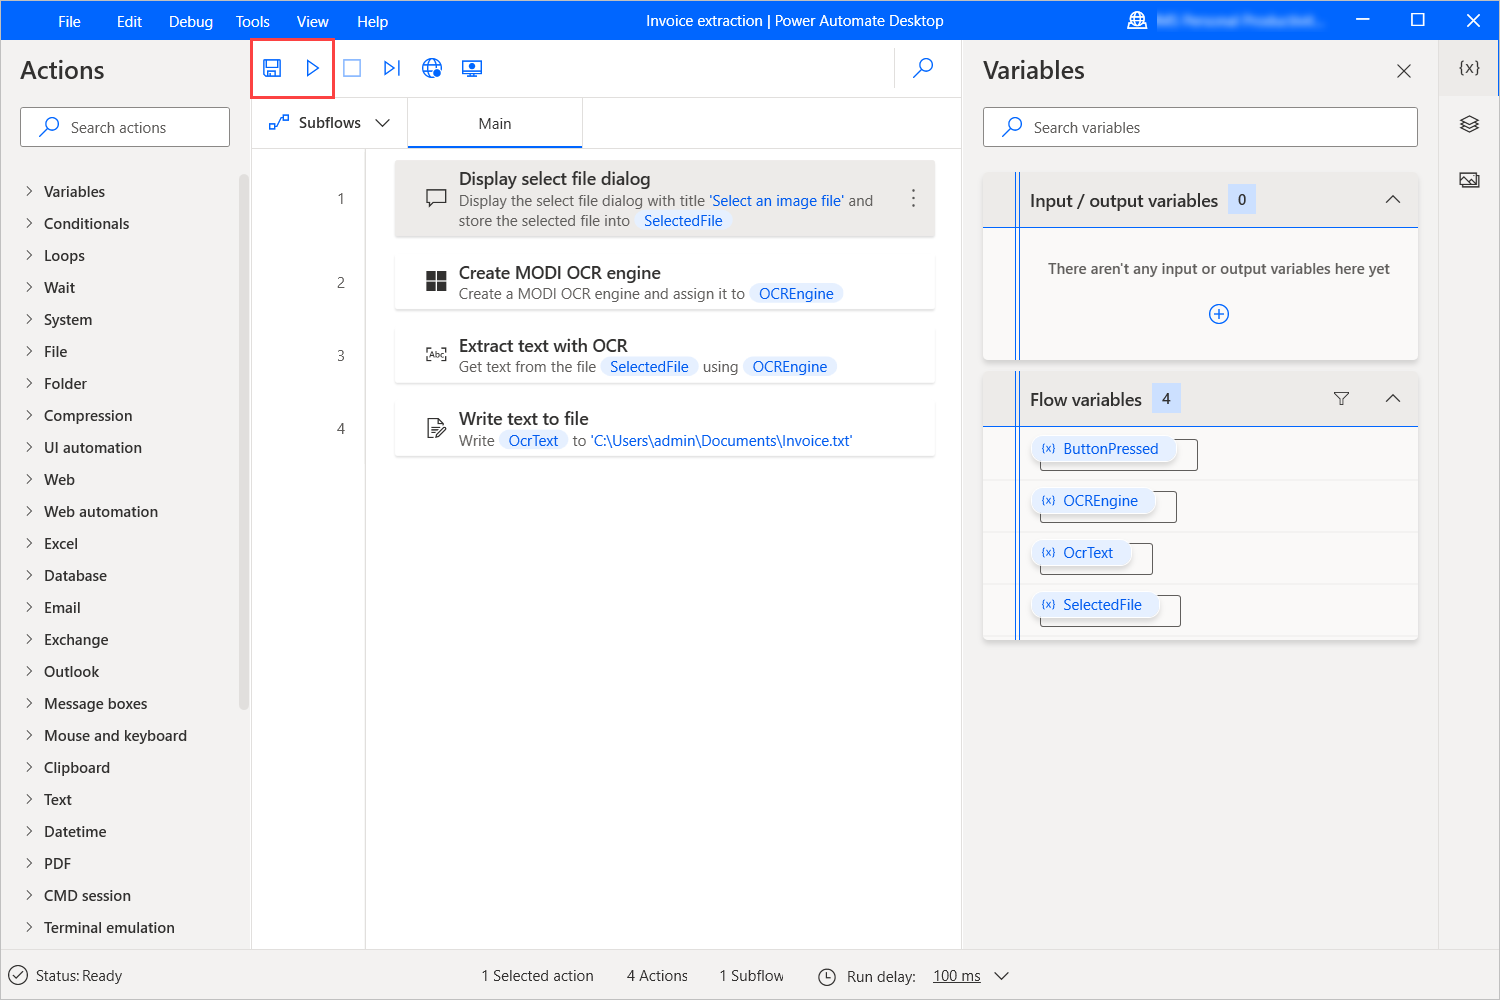
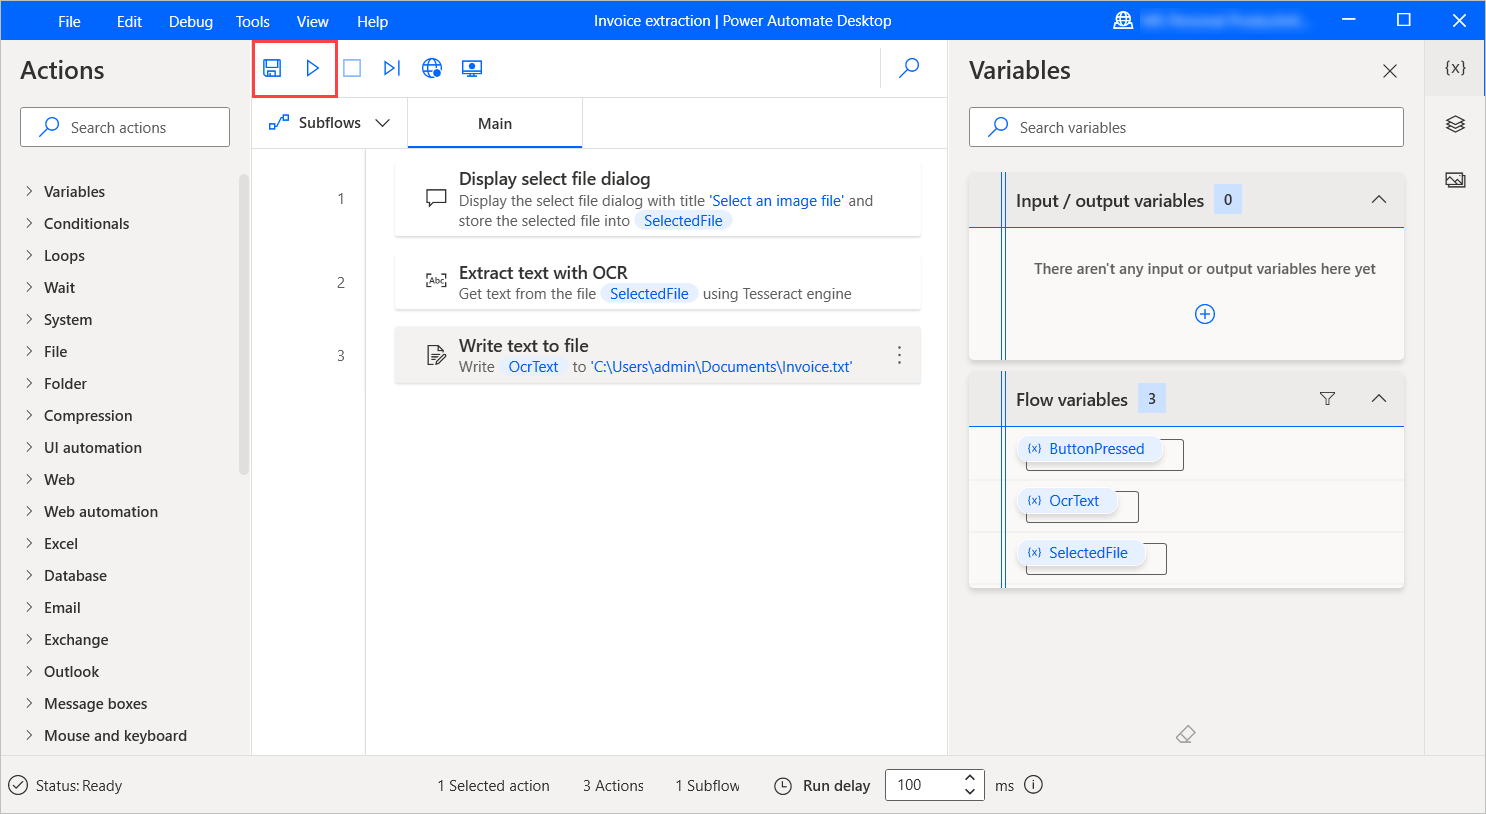
Updates in OCR technologies in PAD

diff --git a/learn-bizapps-pr/flow/pad-ocr/includes/2-ocr-actions.md b/learn-bizapps-pr/flow/pad-ocr/includes/2-ocr-actions.md
@@ -4,15 +4,15 @@ Power Automate Desktop provides a wide variety of optical character recognition 
 
 To perform any OCR operation, you have to initialize an OCR engine. OCR engines are software tools used to convert typed or handwritten content into a machine-readable and editable format.
 
-Power Automate Desktop supports the Microsoft MODI and Google Tesseract engines through the **Create MODI OCR engine** and **Create Tesseract OCR engine** actions. Both actions have the same structure and work identically.
+Power Automate Desktop supports thr Google Tesseract engine through the **Create Tesseract OCR engine** actions.
 
-![Screenshot of the Create MODI O C R engine action.](..\media\create-modi-ocr-engine-action.png)
+![Screenshot of the Create Tesseract O C R engine action.](..\media\create-tesseract-ocr-engine-action.png)
 
 To initialize the engine, you need to specify its language and set the image's width and height multipliers.
 
 Image multipliers increase the size of the image to make text extraction or searching more effective. Although multipliers are a valuable mechanism, avoid setting values greater than three because high values might lead to failed results.
 
-As an output, these actions produce an OCR engine variable. This variable is used as input in virtually every other OCR action.
+As an output, the action produces an OCR engine variable. This variable is used as input in virtually every other OCR action.
 
 Additionally, the **Create Tesseract OCR engine** action provides the **Use other language** option to use languages outside the provided list. To use another language, you have to populate the language's abbreviation and the respective data file's path.
 

diff --git a/learn-bizapps-pr/flow/pad-ocr/includes/3-exercise-extract-data-image.md b/learn-bizapps-pr/flow/pad-ocr/includes/3-exercise-extract-data-image.md
@@ -8,11 +8,7 @@ In this exercise, you'll create a flow that extracts invoice data from scanned d
 
     ![Screenshot of the Display select file dialog action.](..\media\exercise-display-select-file-dialog-action.png)
 
-1. Deploy a **Create MODI OCR engine** action to initialize an OCR engine variable. In the action's properties, set the image width and height multipliers to 2.
-
-    ![Screenshot of the Create MODI O C R engine action.](..\media\exercise-create-modi-ocer-engine-action.png)
-
-1. Add an **Extract text with OCR** action to the workspace and configure it to extract text from the previously selected image.
+1. Add an **Extract text with OCR** action to the workspace and configure it to extract text from the previously selected image. In the **OCR engine seetings**, set the image width and height multipliers to 2.
 
     ![Screenshot of the Extract text with O C R action.](..\media\exercise-extract-text-with-ocr-action.png)
 
